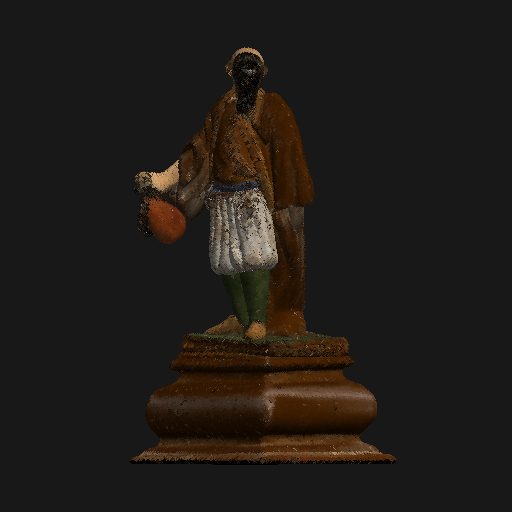
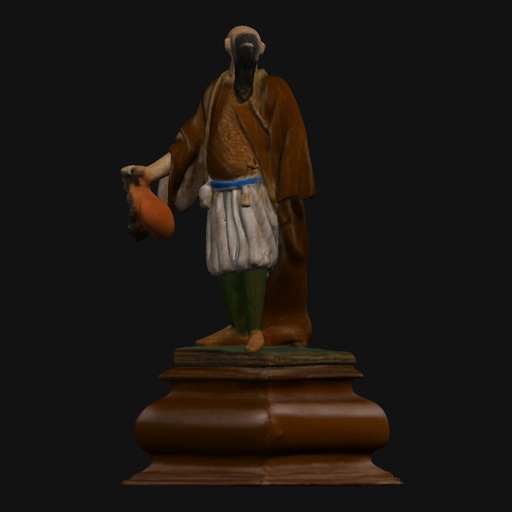
docs: re-measure on the current path and refresh README, assets
Every July number in the README came from runs where sparse conv had
silently fallen back to the pure-PyTorch backend, on the old GLB export.
Re-measured on main (brighella, seed 42, M5 32 GB, fresh process per run,
150 s apart; logs in outputs/refresh/):

- 512: 145.6 s wall median (4 runs), peak footprint 18.5 GB at load
- --steps 8: generation -20%, wall -14% (was "-39%", shoe sample / none)
- 1024: 478 s; 1024_cascade: 460 s, 23.5 GB
- bake cap 200K vs 800K: no open boundaries at either cap and no
  surface pits at 200K; the July "800K has fewer pits" came from the
  mtlbvh bug
- July gate 512,278 -> 512,320 reproduced exactly by switching only
  SPARSE_CONV_BACKEND (flex_gemm -> none): it was the fallback, not
  dependency drift

README: split raw mesh vs GLB counts, fix attention defaults (naive for
dense and sparse), rebuild the memory section per stage (RSS vs
footprint), state what the Metal toolchain provides, label July-only
numbers with their conditions, add a hedged pixal3d.cpp note.

tools/render_preview.py rendered every frame mirrored (identity
projection + LESS depth put the camera at -z); flip z so it looks from
+z. Assets re-rendered from current outputs with the same tool.

Claude-Session: https://claude.ai/code/session_01JVY1Vv6gXkvbpecYxCGo2V

Changed region(s): [[0.2188, 0.0312, 0.7812, 0.9688]]

diff --git a/tools/render_preview.py b/tools/render_preview.py
@@ -155,6 +155,12 @@ class Renderer:
         m = np.eye(4, dtype=np.float32)
         m[:3, :3] = self.scale * ry
         m[:3, 3] = -self.scale * (ry @ self.center)
+        # Identity projection + GL's LESS depth test keeps the fragment with the
+        # smallest NDC z, so without this flip the camera effectively sat at -z
+        # while x stayed to the right: every frame came out mirrored. Negating z
+        # puts the camera at +z (glTF front), which the shader's normal flip and
+        # the light directions already assume.
+        m[2, :] *= -1.0
         return m, ry
 
     def render(self, deg):

diff --git a/README.md b/README.md
@@ -2,7 +2,7 @@
 
 Run [TRELLIS.2](https://github.com/microsoft/TRELLIS.2) image-to-3D generation natively on Apple Silicon — no NVIDIA GPU required.
 
-TRELLIS.2 is Microsoft Research's state-of-the-art image-to-3D model. It ships CUDA-only. This project runs it on Apple Silicon through PyTorch's MPS backend: a single image in, a textured 400K+-vertex GLB out, entirely on your Mac's GPU.
+TRELLIS.2 is Microsoft Research's state-of-the-art image-to-3D model. It ships CUDA-only. This project runs it on Apple Silicon through PyTorch's MPS backend: a single image in, a textured GLB out, entirely on your Mac's GPU.
 
 <p align="center">
 <img src="assets/demo.gif" width="720" alt="Input image and the generated 3D mesh rotating on a turntable">
@@ -11,7 +11,7 @@ TRELLIS.2 is Microsoft Research's state-of-the-art image-to-3D model. It ships C
 ## TL;DR
 
 - **One command**: `trellis-silicon photo.png` → GLB with baked PBR textures. Web UI: `trellis-silicon-web`.
-- **Fast**: warm runs take **~20s load + ~1.6-1.7 min generation + ~23s GLB export** (default `512` pipeline, ~2.4 min wall). The performance pass over the base port cut load **5×** (~103s → ~19s) and total warm time **~37%** (~300s → ~190s); `--steps 8` fast mode cuts generation time further with little visible quality loss.
+- **Fast**: warm runs take **~20s load + ~1.6-2.0 min generation + ~22s GLB export** (default `512` pipeline, ~2.4 min wall, median of four runs on an M5/32GB). The performance pass over the base port cut load **5×** (~103s → ~20s) and total warm time roughly in half (~300s → ~145s; the base-port figure was measured on an earlier sample image); `--steps 8` fast mode trims generation by another ~20%.
 - **Where the speed came from** (measured, not guessed): skipping a weight init that gets overwritten anyway, loading only the checkpoints the pipeline uses, batching the two CFG forwards, swapping MPS SDPA for a naive attention that is 3.3-4.1× faster at these shapes, running sparse convolution on the Metal `flex_gemm` kernels, and vectorizing mesh extraction (67×). Full story in [Performance](#performance) — including five intuitive optimizations that measurement killed.
 - **Quality is tunable**: defaults favor speed; `--pipeline-type 1024_cascade --texture-size 2048` plus `BAKE_MAX_FACES=800000` for maximum quality (see [Maximum quality](#maximum-quality)).
 - **Reproducible**: pinned upstream commit, locked dependencies, deterministic verification gate, tests + CI on Apple Silicon runners.
@@ -20,13 +20,13 @@ TRELLIS.2 is Microsoft Research's state-of-the-art image-to-3D model. It ships C
 
 ```bash
 git clone https://github.com/sanchez-kim/trellis-silicon.git && cd trellis-silicon
-xcodebuild -downloadComponent MetalToolchain  # optional: Metal-accelerated texture baker
+xcodebuild -downloadComponent MetalToolchain  # recommended: builds the Metal sparse conv, mesh ops and baker
 hf auth login                                 # gated weights — approve DINOv3 + RMBG-2.0 on HF first
 bash setup.sh && source .venv/bin/activate
 trellis-silicon photo.png                     # → photo.glb (first run downloads ~15GB of weights)
 ```
 
-Requires macOS on Apple Silicon (M1+), Python 3.11+, 24GB+ unified memory recommended. Details, gated-model links, and troubleshooting in [Installation](#installation).
+Requires macOS on Apple Silicon (M1+), Python 3.11+, and at least 24GB of unified memory (32GB recommended: some inputs exceed 24GB, up to 26.3GB peak footprint measured). Details, gated-model links, and troubleshooting in [Installation](#installation).
 
 ---
 
@@ -34,9 +34,9 @@ This project builds on [trellis-mac](https://github.com/shivampkumar/trellis-mac
 
 ## Example
 
-From a single image, TRELLIS-Silicon generates a **400K+ vertex mesh with baked PBR textures** (base color, metallic, roughness) as a ready-to-use GLB.
+From a single image, TRELLIS-Silicon generates a mesh with baked PBR textures (base color, metallic, roughness) as a ready-to-use GLB.
 
-**Input image** &rarr; **Generated 3D mesh** (~500K vertices, ~1M triangles) with Metal-baked PBR textures:
+**Input image** &rarr; **Generated GLB** with Metal-baked PBR textures. With the default `512` pipeline the decoder produces a ~513K-vertex, ~1.07M-triangle raw mesh; the exported GLB is remeshed and decimated to the 200K-face budget (~188K faces and ~94K vertices; UV seams split those into ~120K vertices in the file). `--obj` also writes the raw mesh.
 
 <p>
 <img src="assets/brighella_input.png" width="200">
@@ -55,15 +55,15 @@ From a single image, TRELLIS-Silicon generates a **400K+ vertex mesh with baked 
 
 - **Packaged** — a src-layout Python package with three console scripts and a Gradio web UI, instead of loose scripts.
 - **Reproducible** — TRELLIS.2 pinned to a validated upstream commit, locked Python dependencies, a deterministic verification gate (fixed seed → exact mesh counts), a unit-test suite, and CI on Apple Silicon runners.
-- **Faster** — a measurement-first performance pass: conditional checkpoint loading + skip-init (pipeline load ~103s → ~19s warm), batched classifier-free guidance (−7.8% generation), a naive dense-attention backend that beats PyTorch's MPS SDPA by 3.3-3.9× at the structure-phase shapes (−19% generation), vectorized mesh extraction (67× on that step). Warm end-to-end roughly halved overall; see [Performance](#performance).
-- **Measured, including the failures** — the optimization campaign documents its dead ends (fused varlen attention kernels, `torch.compile` on MPS, model residency) so nobody re-walks them; see [Performance](#performance).
-- **Verified beyond 512** — the `1024` and `1024_cascade` pipelines are exercised on-device, not just theoretically supported.
+- **Faster** — a measurement-first performance pass: conditional checkpoint loading + skip-init (pipeline load ~103s → ~20s warm), batched classifier-free guidance, naive attention backends that beat PyTorch's MPS SDPA by 3.3-4.1× at this model's shapes, sparse convolution on the Metal `flex_gemm` kernels, and vectorized mesh extraction (67× on that step). Warm end-to-end roughly halved overall; see [Performance](#performance).
+- **Measured, including the failures** — the optimization campaign documents its dead ends (fused varlen attention kernels, `torch.compile` on MPS, model residency, and two more) so nobody re-walks them; see [Performance](#performance).
+- **Verified beyond 512** — the `1024` and `1024_cascade` pipelines run end to end on-device (re-measured 2026-11-06 on an M5/32GB: ~8 min each), not just theoretically supported.
 
 ## Requirements
 
 - macOS on Apple Silicon (M1 or later)
 - Python 3.11+
-- 24GB+ unified memory recommended (the 4B model is large); measured peak memory footprint on one machine was ~18.5GB for the default `512` pipeline and ~23.5GB for `1024_cascade` (`/usr/bin/time -l`) — see [Memory](#memory) below
+- At least 24GB of unified memory; 32GB recommended, because some inputs exceed 24GB (up to 26.3GB footprint measured). Measured peak memory footprint (`/usr/bin/time -l`, M5/32GB): 16.9-18.5GB for the default `512` pipeline on the sample image, 15.5-26.3GB on four other `512` inputs, 20.9GB for `1024` and 23.5GB for `1024_cascade`. Not validated on 16GB. See [Memory](#memory) below
 - ~15GB disk space for model weights (downloaded on first run)
 
 ## Installation
@@ -72,9 +72,11 @@ From a single image, TRELLIS-Silicon generates a **400K+ vertex mesh with baked 
 git clone https://github.com/sanchez-kim/trellis-silicon.git
 cd trellis-silicon
 
-# (Recommended) Download the Xcode Metal Toolchain so setup can build the
-# Metal-accelerated texture baker. Without it, setup falls back to a pure-Python
-# KDTree baker (slower, slightly softer near UV seams).
+# (Recommended) Download the Xcode Metal Toolchain so setup can build the Metal
+# packages (mtlgemm, mtlmesh, mtlbvh, mtldiffrast). Without it, setup still
+# works, but you lose all four: sparse convolution falls back to pure PyTorch
+# (slower decode), the decode-time hole fill and the GLB remesh are off (the GLB
+# keeps open boundaries), and texture baking uses a pure-Python KDTree baker.
 xcodebuild -downloadComponent MetalToolchain
 
 # Log into HuggingFace (needed for the gated model weights)
@@ -142,7 +144,7 @@ A GLB with baked PBR textures is the only default output; use `--obj` if you als
 
 ### Fast mode
 
-Generation time is roughly linear in the sampler step count. Dropping from the default 12 steps to **8** cuts generation by ~39% with quality that is nearly indistinguishable; **6** steps is faster still but visibly noisier on the surface.
+Sampling time is linear in the sampler step count, but decode and GLB export are fixed costs. Dropping from the default 12 steps to **8** cuts sampling by about a third and generation by ~20% (median 101s → 81s over four runs each), so the whole run gets ~14% shorter (median 145.6s → 125.8s). On the sample image the result stays close to the default. **6** steps is faster still but visibly noisier on the surface (July measurement).
 
 ```bash
 trellis-silicon photo.png --steps 8
@@ -158,10 +160,11 @@ trellis-silicon photo.png --pipeline-type 1024_cascade --texture-size 2048
 
 | | `512` (default) | `1024` | `1024_cascade` |
 |---|---|---|---|
-| Raw mesh | ~1.0M triangles | ~4.0M | ~4.2M |
-| Wall time (warm machine, single indicative runs) | ~2.4 min | ~17 min* | ~7.7 min |
+| Raw mesh (Brighella) | ~1.07M triangles | ~4.04M | ~4.21M |
+| Wall time | ~2.4 min | ~8.0 min | ~7.7 min |
+| Peak memory footprint | 16.9-18.5GB | 20.9GB | 23.5GB |
 
-\* `512` and `1024_cascade` were re-measured on 2026-11-06 (M5/32GB, `flex_gemm` sparse conv, `/usr/bin/time`); the `1024` figure is an older measurement, taken before the naive-attention and `flex_gemm` changes, so it overstates today's time.
+Measured 2026-11-06 on an M5/32GB with `flex_gemm` sparse conv and `/usr/bin/time` (`512`: median of four runs; `1024` and `1024_cascade`: one run each), default 1024 texture. On this machine the two 1024 pipelines take about the same time.
 
 <p>
 <img src="assets/quality_compare.png" width="720" alt="512 default output next to 1024_cascade with 2K textures">
@@ -174,13 +177,23 @@ At default settings the GLB-level gain is mostly texture fidelity, because every
 BAKE_MAX_FACES=800000 trellis-silicon photo.png --pipeline-type 1024_cascade --texture-size 2048
 ```
 
-Measured on one M-series/32GB machine with the earlier export path (pre-simplify, no remesh; 512-pipeline input, 1.06M raw faces): stable at every cap tried — 400K (bake 22s), 600K (30s), 800K (91s), even the full undecimated 1.06M mesh (120s), vs 9s at the default 200K. For `1024_cascade` the difference is dramatic: with `BAKE_MAX_FACES=800000`, 730K faces survive into the GLB instead of 164K — visibly cleaner drapery and far fewer surface pits:
+Measured on the current export path (M5/32GB, 2026-11-06, Brighella; one generation per pipeline, baked at each cap in the same process):
+
+| Pipeline | Cap | GLB faces | Bake | GLB size | Open boundary edges | Non-manifold edges |
+|---|---|---|---|---|---|---|
+| `512` | 200K (default) | 187K | 24s | 8.3MB | 0 | 205 |
+| `512` | 500K | 492K | 45s | 18.3MB | 0 | 331 |
+| `512` | 800K | 787K | 57s | 27.8MB | 0 | 337 |
+| `1024_cascade` + 2K texture | 200K (default) | 200K | 73s | 15.9MB | 0 | 94 |
+| `1024_cascade` + 2K texture | 800K | 793K | 111s | 35.7MB | 0 | 361 |
+
+Every cap ran without problems. No GLB has open boundary edges, but a few hundred non-manifold edges remain (94-361). A higher cap keeps finer geometry (the beard, the mask, the hat fringe), visible up close and in clay renders; at thumbnail size the textured results look the same. The 200K default shows no surface pits. An older export path did show pits (the `mtlbvh` traversal bug, a bake from the pre-simplified mesh), and that path is gone. The 200K default no longer shows them:
 
 <p>
-<img src="assets/bakecap_compare.png" width="720" alt="1024_cascade baked at the default 200K face cap next to the same generation baked at an 800K cap">
+<img src="assets/bakecap_compare.png" width="720" alt="Clay render of the 1024_cascade upper body baked at the default 200K face cap next to the same generation baked at an 800K cap">
 </p>
 
-The default stays a conservative 200K until higher caps are validated on more machines with the current export path. Upstream's GitHub app defaults to 500K.
+The default stays 200K: it keeps GLBs small (~8MB at `512`) and the bake short. Upstream's GitHub app defaults to 500K.
 
 The export itself follows upstream TRELLIS.2: hole fill, a closed narrow-band dual-contouring remesh, decimation, and a bake snapped to the full-resolution surface (see [Technical details](#technical-details)).
 
@@ -224,11 +237,11 @@ All hardcoded `.cuda()` calls are patched to use the active device.
 
 ### Technical details
 
-**Sparse 3D convolution**: the default backend is `flex_gemm` from [`mtlgemm`](https://github.com/pedronaugusto/mtlgemm) — Metal hashmap neighbor maps plus a masked implicit GEMM. `core.py` imports torch before probing it (its `_C` extension finds `libc10` through the already-loaded torch). If the import fails, one stderr line names the error and the run uses `backends/conv_none.py`: submanifold sparse convolution via a Python-dict spatial hash of active voxels — gather neighbor features per kernel position, apply weights by matmul, scatter-add back, with neighbor maps cached per tensor. `SPARSE_CONV_BACKEND=none` forces the fallback. Until 2026-11-06 every run here silently used that fallback. `core.py` imported `flex_gemm` before torch. `mtlgemm`'s `setup.py` bakes the build venv's absolute `torch/lib` path in as the only torch rpath, and `setup.sh` kept repacking a binary left in `deps/mtlgemm/build/` from before the project folder was renamed (setuptools skips the compile when that build is newer than its sources). `setup.sh` now deletes each Metal package's `build/` and forces a reinstall, so every run compiles against the current venv, then imports each package as a check.
+**Sparse 3D convolution**: the default backend is `flex_gemm` from [`mtlgemm`](https://github.com/pedronaugusto/mtlgemm) — Metal hashmap neighbor maps plus a masked implicit GEMM. `core.py` imports torch before probing it (its `_C` extension finds `libc10` through the already-loaded torch). If the import fails, one stderr line names the error and the run uses `backends/conv_none.py`: submanifold sparse convolution via a Python-dict spatial hash of active voxels — gather neighbor features per kernel position, apply weights by matmul, scatter-add back, with neighbor maps cached per tensor. `SPARSE_CONV_BACKEND=none` forces the fallback. After a project-folder rename and venv rebuild on 2026-07-03, `flex_gemm` silently failed to load and runs used that fallback. All nine July 2026 run logs kept after the rebuild show `Conv backend: none`. The cause: `core.py` imported `flex_gemm` before torch. `mtlgemm`'s `setup.py` bakes the build venv's absolute `torch/lib` path in as the only torch rpath, and `setup.sh` kept repacking a binary left in `deps/mtlgemm/build/` from before the project folder was renamed (setuptools skips the compile when that build is newer than its sources). `setup.sh` now deletes each Metal package's `build/` and forces a reinstall, so every run compiles against the current venv, then imports each package as a check.
 
 **Mesh extraction** (`backends/mesh_extract.py`): reimplements `flexible_dual_grid_to_mesh` without CUDA hashmaps — the coord→index lookup is a collision-free int64 coordinate hash resolved with `torch.unique` + `searchsorted`, then connected voxels per edge and quad triangulation by normal alignment.
 
-**Attention** (patched `full_attn.py`): adds an SDPA backend to the sparse attention module. Variable-length sequences are padded into a batch, run through `torch.nn.functional.scaled_dot_product_attention`, then unpadded.
+**Attention**: dense attention (structure phase) uses the `naive` backend that ships in the pinned TRELLIS.2. Sparse attention (shape/texture SLat phases) gets two backends from `patches/attention.py`: variable-length sequences are padded into a batch, run through an unfused `softmax(qkᵀ·scale)v` (`naive`, the default) or `torch.nn.functional.scaled_dot_product_attention` (`SPARSE_ATTN_BACKEND=sdpa`), then unpadded.
 
 **GLB export** (`postprocess.py`): a port of the upstream TRELLIS.2 `to_glb` production path (`remesh=True`, as upstream `app.py` calls it), running on the Metal stack from [@pedronaugusto](https://github.com/pedronaugusto) — [`mtldiffrast`](https://github.com/pedronaugusto/mtldiffrast), [`mtlbvh`](https://github.com/pedronaugusto/mtlbvh), [`mtlmesh`](https://github.com/pedronaugusto/mtlmesh), plus helpers from his CPU fork of [`o_voxel`](https://github.com/pedronaugusto/trellis2-apple). The full-resolution decoder mesh is hole-filled, rebuilt as a closed surface by narrow-band dual contouring at the pipeline resolution, decimated to the face budget (`BAKE_MAX_FACES`, default 200K), UV-unwrapped, and textured by snapping every texel back to the full-resolution surface before sampling the voxel PBR volume. The material is `OPAQUE` and single-sided, as upstream. We do not call the fork's own `to_glb`: it adds a cleanup pass after the remesh that re-opens holes, and it switches the material to `BLEND` (see-through in three.js viewers) when any texel has alpha < 250. `mtlbvh` builds older than [bc0a534](https://github.com/pedronaugusto/mtlbvh/commit/bc0a534) miss the nearest triangle on meshes above ~131K triangles (a 24-slot traversal stack overflows); `setup.sh` pins a fixed commit, and `postprocess.make_bvh` detects an old build with a self-test and falls back to exact sub-BVHs. `GLB_REMESH=0` restores the earlier path (`fast_simplification` to the face budget, then the fork's non-remesh branch), which leaves open boundaries in the GLB. That legacy path needs a fixed `mtlbvh` (pin `fe6660b`): the sub-BVH fallback only protects the default path. Texels sample the voxel PBR field with flex_gemm's sparse trilinear `grid_sample_3d`, as upstream; if it can't be imported, `postprocess.sparse_grid_sample_3d` gives the same result on CPU (the fork's own dense fallback counts empty voxels as black and bakes a darker texture). Without the Metal toolchain, `backends/texture_baker.py` takes over: xatlas UV unwrap, then a scipy cKDTree + inverse-distance weighting over the sparse voxel grid (no remesh).
 
@@ -239,51 +252,65 @@ This project ran a measurement-first optimization campaign on top of the base po
 | Optimization | Effect | Notes |
 |---|---|---|
 | Conditional checkpoint loading | load ~103s → ~55-65s | `512` pipeline skips the two unused ~2.4GB `*_1024` flow models |
-| Skip-init on load | load ~56s → **~19s** (warm) | The xavier init is immediately overwritten by `load_state_dict`; skipping it is bit-identical. Opt out with `SKIP_INIT_ON_LOAD=0` |
-| CFG batching | generation 197.3s → 181.9s (−7.8%) | The two classifier-free-guidance forwards run as one batch-2 forward; mesh is bit-identical. Opt out with `CFG_BATCH=0` |
-| Naive dense attention | structure phase ~1.75×, generation **−19%** (same-window A/B: 211.5s → ~170s) | PyTorch's fused SDPA is pathologically slow on MPS at the structure-phase shape (B=2, S=4096, H=12, D=128, bf16) — a textbook unfused `softmax(qkᵀ)v` measures 3.3–3.9× faster at both self- and cross-attention shapes, at bf16-level numerical noise. Opt out with `ATTN_BACKEND=sdpa` |
-| Naive sparse attention | shape/tex SLat sampling −38%/−44% s/it | Same finding, applied to the shape/tex SLat shapes (self-attn S=1591, cross-attn kv=1029) — naive measures ~4.0-4.1× faster than SDPA there, an even bigger win than dense. Opt out with `SPARSE_ATTN_BACKEND=sdpa` |
+| Skip-init on load | load ~56s → **~20s** (warm, median of four runs; single runs 19-22s) | The xavier init is immediately overwritten by `load_state_dict`; skipping it is bit-identical. Opt out with `SKIP_INIT_ON_LOAD=0` |
+| CFG batching | generation 197.3s → 181.9s (−7.8%)† | The two classifier-free-guidance forwards run as one batch-2 forward; the gate mesh did not change. Opt out with `CFG_BATCH=0` |
+| Naive dense attention | structure sampling 103s → 52-57s (~1.9×)‡ | PyTorch's fused SDPA is pathologically slow on MPS at the structure-phase shape (B=2, S=4096, H=12, D=128, bf16) — a textbook unfused `softmax(qkᵀ)v` measures 3.3–3.9× faster at both self- and cross-attention shapes, at bf16-level numerical noise. Opt out with `ATTN_BACKEND=sdpa` |
+| Naive sparse attention | shape SLat sampling 29s → 17-19s, tex SLat 17s → 9-10s‡ | Same finding, applied to the shape/tex SLat shapes (self-attn S=1591, cross-attn kv=1029) — naive measures ~4.0-4.1× faster than SDPA there, an even bigger win than dense. Opt out with `SPARSE_ATTN_BACKEND=sdpa` |
 | Metal sparse convolution (`flex_gemm`) | `512`: generation 136.6-136.9s → 96.2-101.8s (−26 to −30%), wall 179-181s → 140-148s; `1024_cascade`: generation 581.6s → 364.5s (−37%), wall 674s → 460s | The SLat decoders' submanifold convs ran on the pure-PyTorch `conv_none` fallback without notice: an import-order bug plus a stale build (details in [Technical details](#technical-details)). Sampling s/it is unchanged; only decode gets faster. On real decoder activations `flex_gemm` is ~3× closer to an fp32 reference than `conv_none` (relative error ≤2.2e-4 vs ≤6.4e-4; fp16 inputs). The gate mesh moves by +14 vertices / +34 triangles (+0.003%). Opt out with `SPARSE_CONV_BACKEND=none` |
 | Vectorized mesh extraction | extraction step 8.8s → 0.13s | The coord→index dict loops became an int64 perfect hash + `torch.unique`; bit-identical output |
-| Step-count fast mode | generation −39% at `--steps 8` | Quality/speed tradeoff, off by default (see [fast mode](#fast-mode)) |
+| Step-count fast mode | `--steps 8`: generation 101s → 81s (−20%), wall 145.6s → 125.8s (−14%), medians of four runs each | Quality/speed tradeoff, off by default (see [fast mode](#fast-mode)). Sampling drops by a third; decode and export are fixed costs |
 
-Both load and generation optimizations are on by default and verified to leave the output mesh unchanged (or, for CFG batching, identical to floating-point rounding). Two paths we investigated and **rejected**: keeping models resident (`--resident` — measured slower from memory pressure), and `torch.compile` (inductor is ~2× slower than eager on MPS in the current PyTorch).
+† Measured in July 2026 on the earlier sample image, before the attention and export changes; not re-measured.
+‡ Measured 2026-11-06 on an M5/32GB, `512`, `flex_gemm`: one run with `ATTN_BACKEND=sdpa SPARSE_ATTN_BACKEND=sdpa` against four default runs (the SDPA run also had the decode hole fill off, which costs under 1s). The two naive backends together take generation from 183s to 97-118s (−35 to −47%).
+
+All of these are on by default except fast mode. Skip-init, conditional loading, CFG batching and the vectorized extraction leave the gate mesh unchanged. The naive attention backends and `flex_gemm` reorder floating-point work, so they move the gate mesh slightly (each within ±1%); each was adopted after a visual check.
+
+Five intuitive optimizations that measurement **rejected**:
+
+- **Fused varlen attention kernels.** Single-image inference is batch-1 with zero padding waste, and the available Metal kernel measured slower than SDPA at N=1.
+- **Replacing the `segment_reduce` CPU fallback.** It costs about 0.01% of a run.
+- **Vectorizing `SparseGroupNorm` / `SparseLayerNorm`.** Nothing calls them; the norm layers in use are already vectorized.
+- **Keeping models resident** (`--resident`). Measured slower on a 32GB machine: the extra memory pressure costs more than the saved CPU↔MPS transfers.
+- **`torch.compile`.** Inductor ran ~2× slower than eager on MPS, drifted ~5% numerically, and could not trace the model with `fullgraph=True`.
 
 ### Memory
 
-Phase-level profiling (`tools/profile_memory.py`, one M-series/32GB machine, `512` pipeline, default settings) found the peak isn't where we expected:
+Two numbers describe memory on macOS, and they differ by several GB. **Max RSS** counts resident CPU-side pages. **Peak memory footprint** (`phys_footprint`, reported by `/usr/bin/time -l`) also counts Metal/GPU allocations and is the one to plan with. At the pipeline load, RSS is about 11GB while the footprint is about 18.5GB. Both describe the same moment.
 
-| Phase | Peak process RSS |
-|---|---|
-| **Pipeline load** | **~12-14GB (the actual peak)** |
-| Structure/shape/tex sampling | well under 1GB above baseline |
-| Decode | ~1-2GB |
-| GLB export (hole fill + remesh + decimate + bake) | ~4.5GB on the Brighella sample (a standalone export of 2.4M-5.3M-face decoder meshes peaks at 9-11GB memory footprint) |
+Per-phase profile, `512` pipeline, Brighella, M5/32GB, 2026-11-06 (`tools/profile_memory.py` for RSS and MPS counters, plus a 50 ms `phys_footprint` poll in the same run):
 
-The peak occurs during **loading**, not during sampling or baking — checkpoint construction and dtype casting transiently need more memory than the pipeline settles into afterward. This also means process RSS (what actually determines whether a machine can run this at all) and PyTorch's MPS-only counters (`driver_allocated_memory`) disagree substantially: the MPS-only view puts the peak at ~9.4GB during texture baking, missing the larger, CPU-side loading spike entirely — because `low_vram` mode keeps not-yet-active submodels resident on the CPU side, and on unified memory that counts against the same budget even though it never touches the MPS device counters. If you're profiling this pipeline yourself, measure process RSS, not just MPS allocator stats.
-
-Practical implication: the whole-process peak memory footprint (table below) is ~18.5GB for the `512` pipeline and ~23.5GB for `1024_cascade`, so plan for a 24GB+ machine; this project has not been validated on 16GB hardware. `CFG_BATCH=0` (sequential CFG) measurably lowers memory *during sampling* (~5.8GB vs ~6.5GB driver-side) but doesn't change the global peak, since that's set during loading regardless of sampling settings.
-
-Whole-process figures from `/usr/bin/time -l` (M5/32GB, 2026-11-06) show about the same peak footprint for both sparse-conv backends (within ~1GB):
-
-| Run | Backend | Max RSS | Peak memory footprint |
+| Phase | Peak footprint | Peak RSS | MPS driver allocation |
 |---|---|---|---|
-| `512` (2 runs each) | `flex_gemm` | 10.9-11.8GB | 18.5GB |
-| `512` (2 runs each) | `none` | 11.4-11.8GB | 17.5-18.5GB |
-| `1024_cascade` (1 run each) | `flex_gemm` | 11.8GB | 23.5GB |
-| `1024_cascade` (1 run each) | `none` | 13.3GB | 23.0GB |
+| **Pipeline load** | **18.6GB (the peak)** | **11.0GB** | 0GB |
+| Structure sampling | 18.5GB | 0.9GB | 6.5GB |
+| Shape / tex SLat sampling | 16.4 / 14.4GB | 0.3 / 0.2GB | 6.5GB |
+| Shape / tex SLat decode | 12.5 / 12.1GB | 0.5 / 1.9GB | 6.5 / 2.2GB |
+| GLB export (hole fill, remesh, decimate, bake) | 10.6GB | 4.3GB | 2.7GB |
 
-Peak memory footprint (macOS `phys_footprint`, which also counts GPU-side allocations) is higher than RSS. Plan headroom with that number.
+The peak is set while the checkpoints load: construction and dtype casting need more memory than the pipeline settles into afterward, and the footprint falls phase by phase from there. RSS alone misses most of the GPU side (it drops below 1GB during sampling while the footprint stays above 14GB), and the MPS allocator counters miss the CPU side, because `low_vram` mode keeps the inactive submodels in CPU memory. On unified memory both count against the same RAM. If you profile this pipeline yourself, measure `phys_footprint`. `CFG_BATCH=0` (sequential CFG) lowered driver-side memory during sampling (~5.8GB vs ~6.5GB, July measurement) but cannot change the global peak, which happens before sampling.
+
+Whole-process peaks from `/usr/bin/time -l` (M5/32GB, 2026-11-06, `flex_gemm`):
+
+| Run | Max RSS | Peak memory footprint |
+|---|---|---|
+| `512`, Brighella (4 runs) | 9.4-11.8GB | 16.9-18.5GB |
+| `512 --steps 8`, Brighella (4 runs) | 9.7-11.8GB | 18.5GB |
+| `1024`, Brighella (1 run) | 9.0GB | 20.9GB |
+| `1024_cascade`, Brighella (1 run) | 11.8GB | 23.5GB |
+
+The footprint depends on the input, not only on the pipeline. Four other `512` inputs measured 15.5-26.3GB peak footprint (one run each, on the slower `none` sparse-conv backend, which on Brighella had about the same footprint as `flex_gemm`). Plan for at least 24GB of unified memory, and 32GB for headroom on large objects and the `1024` pipelines. This project has not been validated on 16GB hardware.
+
+Memory is where this port is weakest. In a separate comparison on this Mac, [pixal3d.cpp](https://github.com/raven38/pixal3d.cpp), an independent GGML Metal port of the same TRELLIS.2-4B weights, ran four other inputs (a fox figure, a tin robot, a backpack, an egg chair) with its own background removal and settings (`--res 512`, 150K-face target). Wall time was 2.8-4.3 min and peak memory 3.1-3.7GB. This is not a like-for-like benchmark: the inputs and settings differ from the Brighella runs above. Read it as: this port is faster, but uses roughly 5× the memory.
 
 The first-ever run also downloads ~15GB of HuggingFace weights (TRELLIS.2, DINOv3, RMBG-2.0), which is network-bound and not counted above.
 
-> **Thermal note.** Apple Silicon throttles aggressively under sustained load. The *same* run can take several times longer when the machine has already been hot for a while — nothing in the code path changes. If a run is unexpectedly slow, let the machine cool for a few minutes and retry before blaming the code. All numbers above assume a cool machine.
+> **Thermal note.** Apple Silicon throttles aggressively under sustained load. The *same* run can take several times longer when the machine has already been hot for a while — nothing in the code path changes. If a run is unexpectedly slow, let the machine cool for a few minutes and retry before blaming the code. The 2026-11-06 timings in this README come from fresh processes on a machine that idled for at least 150 s between runs (warm model cache, not thermally throttled). A VM process kept one CPU core at 100% during all runs.
 
 ## Limitations
 
-- **Attention is not fused.** Dense (structure-phase) attention runs through a naive unfused implementation — measured 3.3-3.9× *faster* than PyTorch's fused MPS SDPA at these shapes — and sparse attention through padded SDPA. Roofline analysis bounds what a hand-written flash-style Metal kernel could add on top at ~6% end-to-end, which we judged not worth the engineering cost. A fused *varlen/sparse* kernel would not help at all: single-image inference is batch-1 with zero padding waste.
+- **Attention is not fused.** Dense (structure-phase) and sparse (shape/tex SLat) attention both run through a naive unfused implementation, measured 3.3-3.9× (dense) and ~4.0-4.1× (sparse) *faster* than PyTorch's fused MPS SDPA at these shapes. A July roofline analysis of the dense path bounded what a hand-written flash-style Metal kernel could add on top at ~6 percentage points of generation time; that was on the slower sparse-conv fallback, so the same absolute saving is a somewhat larger share of today's shorter runs. We judged it not worth the engineering cost. A fused *varlen/sparse* kernel would not help at all: single-image inference is batch-1 with zero padding waste.
 - **GLB face budget.** The GLB is decimated to 200K faces by default (upstream's GitHub app defaults to 500K). Raise it with `BAKE_MAX_FACES` (see [Maximum quality](#maximum-quality)) or pass `--obj` for the full-resolution decoder mesh.
-- **No remesh without the Metal toolchain.** The KDTree fallback baker (`SKIP_METAL=1`) skips the upstream remesh, so its GLBs keep the decoder mesh's open boundaries. With `SKIP_METAL=1` the decode-time hole fill is also off.
+- **Without the Metal toolchain** (or with `SKIP_METAL=1`), all four Metal packages are missing: sparse convolution runs on the pure-PyTorch fallback (slower decode), the decode-time hole fill is off, and the KDTree fallback baker skips the upstream remesh, so its GLBs keep the decoder mesh's open boundaries. The output mesh also differs from the verification gate.
 - **Texture colour.** TRELLIS.2 bakes an albedo that is often darker, and sometimes more saturated, than the input photo. On four test inputs the unlit input-view mean value (HSV V) dropped by 0.06-0.14, except one already close (+0.04). This is not a colour-space bug: the training data stores sRGB texture bytes as `base_color`, the decoder output and `to_glb` keep that encoding, and treating the texture as linear overshoots on every input (V +0.08 to +0.23). An independent GGML port of the same weights also comes out darker than the photo on most inputs. The model predicts a de-lit material (highlights and lighting removed), and its training conditioning renders use Blender 3.0's default Filmic view with up to 1.5x lighting, which likely pulls a photo toward a darker albedo. `--color-match` (or `TEXTURE_COLOR_MATCH=1`) applies an optional correction after the bake: a linear-light gain from the median luminance (brighten-only, at most 2x) and a Lab chroma scale (0.75-1.25x), both measured over the texels that map to the surface, weighted by surface area, against the input's foreground. It can't see which side of the object the photo shows, and the photo's shadows and highlights are part of its statistics, so it stays off by default. On the four inputs it cut the mean |ΔV|+|ΔS| from 0.19 to 0.07 and left the already-close input as is.
 - **Switches.** `DECODE_FILL_HOLES=0` skips the decode-time hole fill. `GLB_REMESH=0` selects the legacy GLB path. Both accept `0`, `false`, `no` or `off` (case-insensitive) as off. `TEXTURE_COLOR_MATCH=1` turns the optional colour match on.
 - **Inference only.** No training support.
@@ -291,13 +318,15 @@ The first-ever run also downloads ~15GB of HuggingFace weights (TRELLIS.2, DINOv
 ## Development
 
 - `tools/profile_attn.py` — instrumented profiling harness for MPS bottlenecks (attention share, CPU fallbacks, per-phase breakdown).
+- `tools/profile_memory.py` — per-phase memory profile of a full `512` run (process RSS, MPS allocator counters, system memory).
+- `tools/render_preview.py` — headless GLB renderer used for the README images (stills and turntable GIFs, textured or clay).
 - `tools/bench/` — the benchmark and numerical-sanity scripts behind the optimization campaign (CFG-batching bit-exactness, skip-init verification, load-time splits, the step-comparison renderer).
 
 The package is a standard src-layout project; `uv pip install -e .` gives you the three console scripts and importable `trellis_silicon` package. Set `TRELLIS2_ROOT` to point the patcher/runtime at a non-standard TRELLIS.2 location.
 
 Reproducibility and CI:
 
-- `requirements.lock` pins the exact dependency versions the verification baseline was established with; `setup.sh` installs from it. Upgrading a dependency can shift floating-point behavior (and therefore the deterministic output mesh) even at the same PyTorch version — re-verify after any upgrade.
+- `requirements.lock` pins the exact dependency versions the verification baseline was established with; `setup.sh` installs from it. Re-run the gate after any upgrade or rebuild, and check the `[SPARSE] Conv backend:` line in the log: a gate shift in July 2026, first blamed on dependency drift after a venv rebuild, was `flex_gemm` silently failing to load. Re-running with the July settings reproduces both July gate counts exactly when only `SPARSE_CONV_BACKEND` changes (512,278 vertices with `flex_gemm`, 512,320 with `none`).
 - `setup.sh` clones TRELLIS.2 at a pinned upstream commit (the one the patches were validated against). Set `TRELLIS2_COMMIT=<sha>` (or `HEAD`) to override.
 - `tests/` holds the unit suite (`pytest tests/`), including bit-exactness tests that pin the vectorized mesh extraction against the original dict-based implementation. CI (GitHub Actions, Apple Silicon runners) runs lint, the unit suite, and a patcher idempotency check against the pinned TRELLIS.2 — no model weights involved.
 

diff --git a/CONTRIBUTING.md b/CONTRIBUTING.md
@@ -68,9 +68,15 @@ must produce the same result both times).
 
 ## Dependencies
 
-Dependencies are locked in `requirements.lock`. Bumping a dependency requires
-re-running the verification gate above — dependency drift has been measured
-to shift the deterministic output mesh.
+Dependencies are locked in `requirements.lock`. Bumping a dependency or
+rebuilding the Metal packages requires re-running the verification gate above,
+and checking the `[SPARSE] Conv backend:` line in the log.
+A gate shift seen after a venv rebuild in July 2026 was first blamed on
+dependency drift. It was traced to `flex_gemm` silently failing to load, which
+switches sparse convolution to the `none` fallback and moves the mesh. All
+nine July 2026 run logs kept after the rebuild show `Conv backend: none`.
+Re-running with the July settings reproduces both July gate counts when only
+`SPARSE_CONV_BACKEND` changes.
 
 ## Pull requests
 
